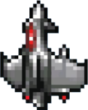
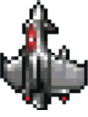
추진 이미지 추가

diff --git a/Space/Player.cpp b/Space/Player.cpp
@@ -21,6 +21,9 @@ void Player::Init()
 	m_Right = Sprite::Create(L"Painting/Object/Player/Right.png");
 	m_Right->SetParent(this);
 
+	m_Propel = Sprite::Create(L"Painting/Object/Player/Propel.png");
+	m_Propel->SetParent(this);
+
 	m_Player = m_Front;
 	m_Player->SetParent(this);
 
@@ -64,6 +67,7 @@ void Player::Move()
 	if (INPUT->GetKey(VK_UP) == KeyState::PRESS && m_Position.y >= GameMgr::GetInst()->YMIN)
 	{
 		m_Position.y -= m_Speed * dt;
+		m_Player = m_Propel;
 	}
 	if (INPUT->GetKey(VK_DOWN) == KeyState::PRESS && m_Position.y <= GameMgr::GetInst()->YMAX)
 	{

diff --git a/Space/Player.h b/Space/Player.h
@@ -6,6 +6,7 @@ class Player : public Object
 	Sprite* m_Front;
 	Sprite* m_Left;
 	Sprite* m_Right;
+	Sprite* m_Propel;
 public:
 	Player();
 	~Player();
